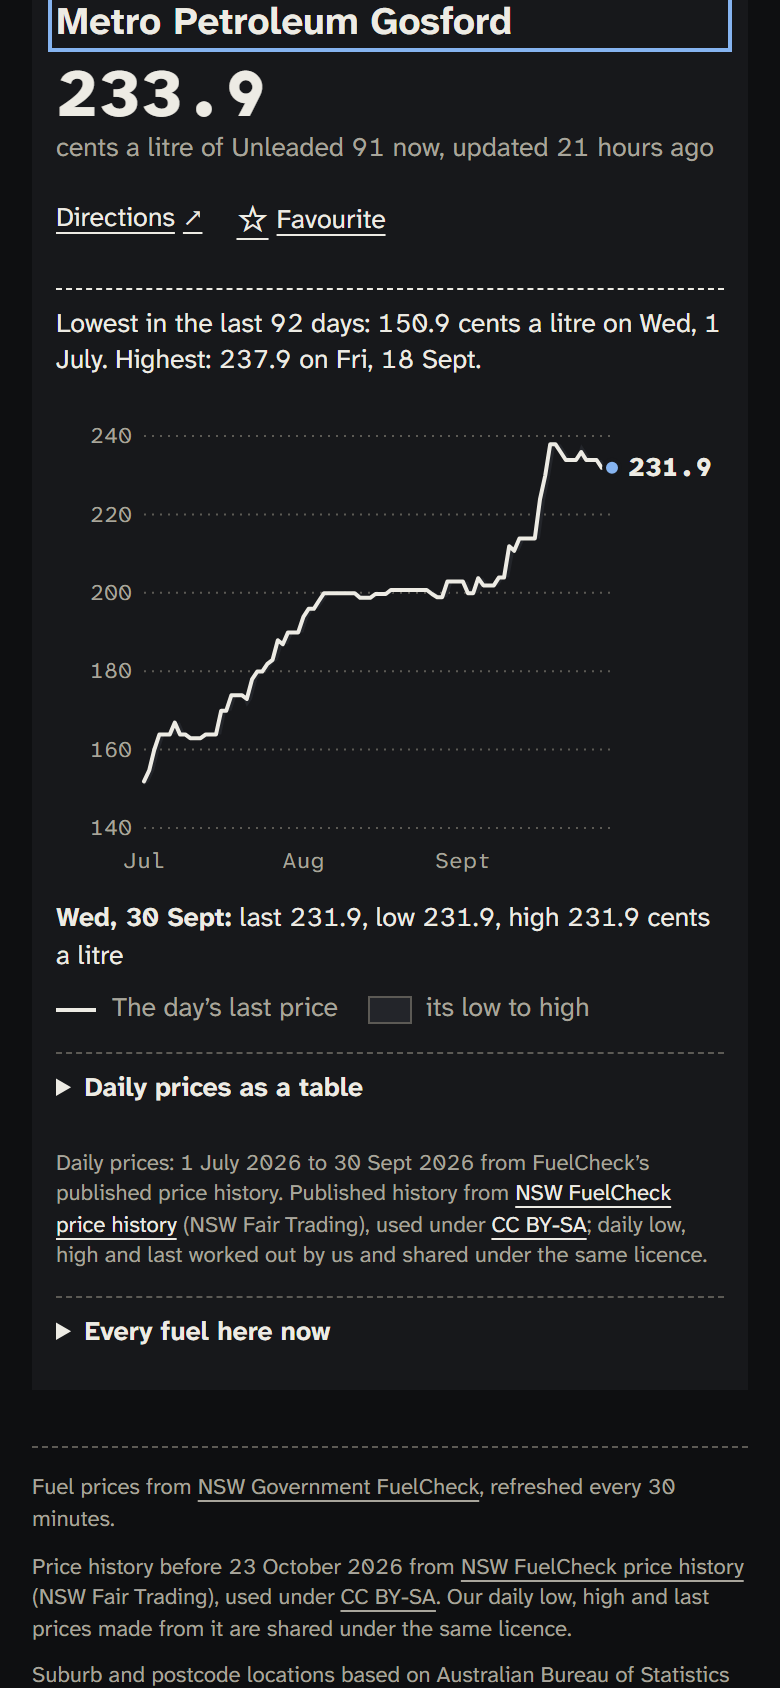
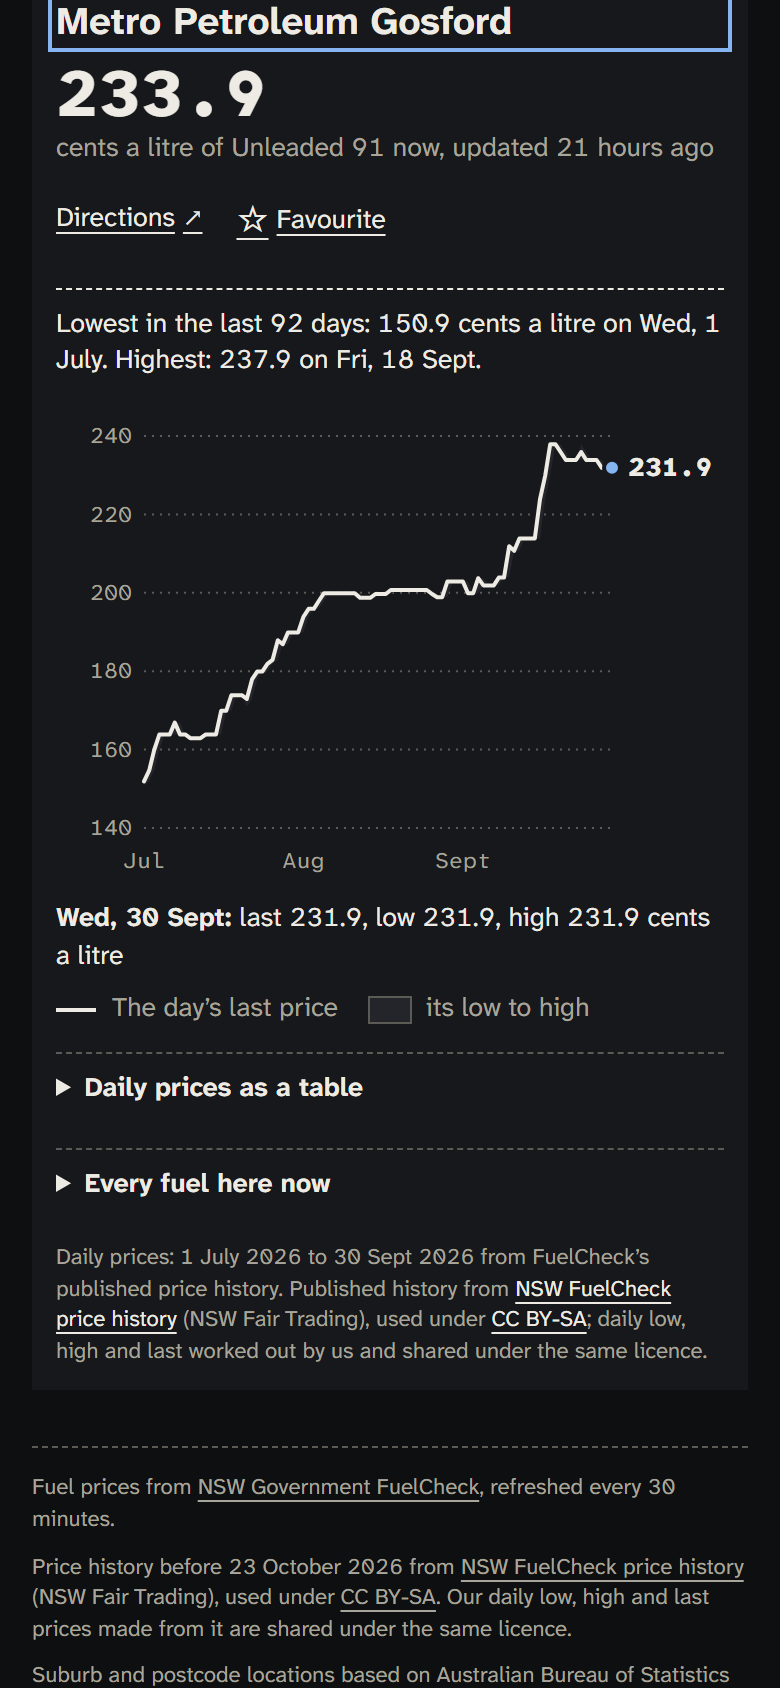
History: the licence credit last, the Updated column in words

Changed region(s): [[0.0615, 0.6777, 0.8923, 0.8009]]

diff --git a/src/features/history/HistoryView.tsx b/src/features/history/HistoryView.tsx
@@ -110,27 +110,27 @@ export function HistoryView({
             </table>
           </details>
         )}
-
-        <p className={styles.credit}>
-          {coverageText(sources, gapList)}{' '}
-          {sources.some((source) => source.kind === 'fuelcheck-monthly') && (
-            <>
-              Published history from{' '}
-              <a href="https://data.nsw.gov.au/data/dataset/fuel-check">
-                NSW FuelCheck price history
-              </a>{' '}
-              (NSW Fair Trading), used under{' '}
-              <a href="https://creativecommons.org/licenses/by-sa/4.0/">CC BY-SA</a>; daily low,
-              high and last worked out by us and shared under the same licence.
-            </>
-          )}
-        </p>
       </div>
 
       <details className={styles.side} open={wide}>
         <summary className={styles.moreSummary}>Every fuel here now</summary>
         <AllFuels data={data} now={now} />
       </details>
+
+      <p className={styles.credit}>
+        {coverageText(sources, gapList)}{' '}
+        {sources.some((source) => source.kind === 'fuelcheck-monthly') && (
+          <>
+            Published history from{' '}
+            <a href="https://data.nsw.gov.au/data/dataset/fuel-check">
+              NSW FuelCheck price history
+            </a>{' '}
+            (NSW Fair Trading), used under{' '}
+            <a href="https://creativecommons.org/licenses/by-sa/4.0/">CC BY-SA</a>; daily low, high
+            and last worked out by us and shared under the same licence.
+          </>
+        )}
+      </p>
     </div>
   );
 }
@@ -164,7 +164,7 @@ function AllFuels({ data, now }: { data: HistoryResponse; now: Date }) {
               {code === data.fuelType && <span className={styles.charted}> (on the chart)</span>}
             </th>
             <td className={styles.figure}>{formatPrice(priceCents)}</td>
-            <td>{formatAge(updatedAt, now)}</td>
+            <td className={styles.when}>{formatAge(updatedAt, now)}</td>
           </tr>
         ))}
       </tbody>

diff --git a/src/features/history/HistoryView.module.css b/src/features/history/HistoryView.module.css
@@ -114,9 +114,19 @@
   font-weight: var(--font-weight-bold);
 }
 
+/* Last: under every fuel on a phone, across both columns on a wide screen. */
 .credit {
+  grid-column: 1 / -1;
   color: var(--color-text-muted);
   font-size: var(--step--2);
+}
+
+/* When a price was updated: words, not a figure. */
+.table td.when {
+  font-family: inherit;
+  font-weight: var(--font-weight-regular);
+  color: var(--color-text-muted);
+  font-size: var(--step--1);
 }
 
 .charted {
